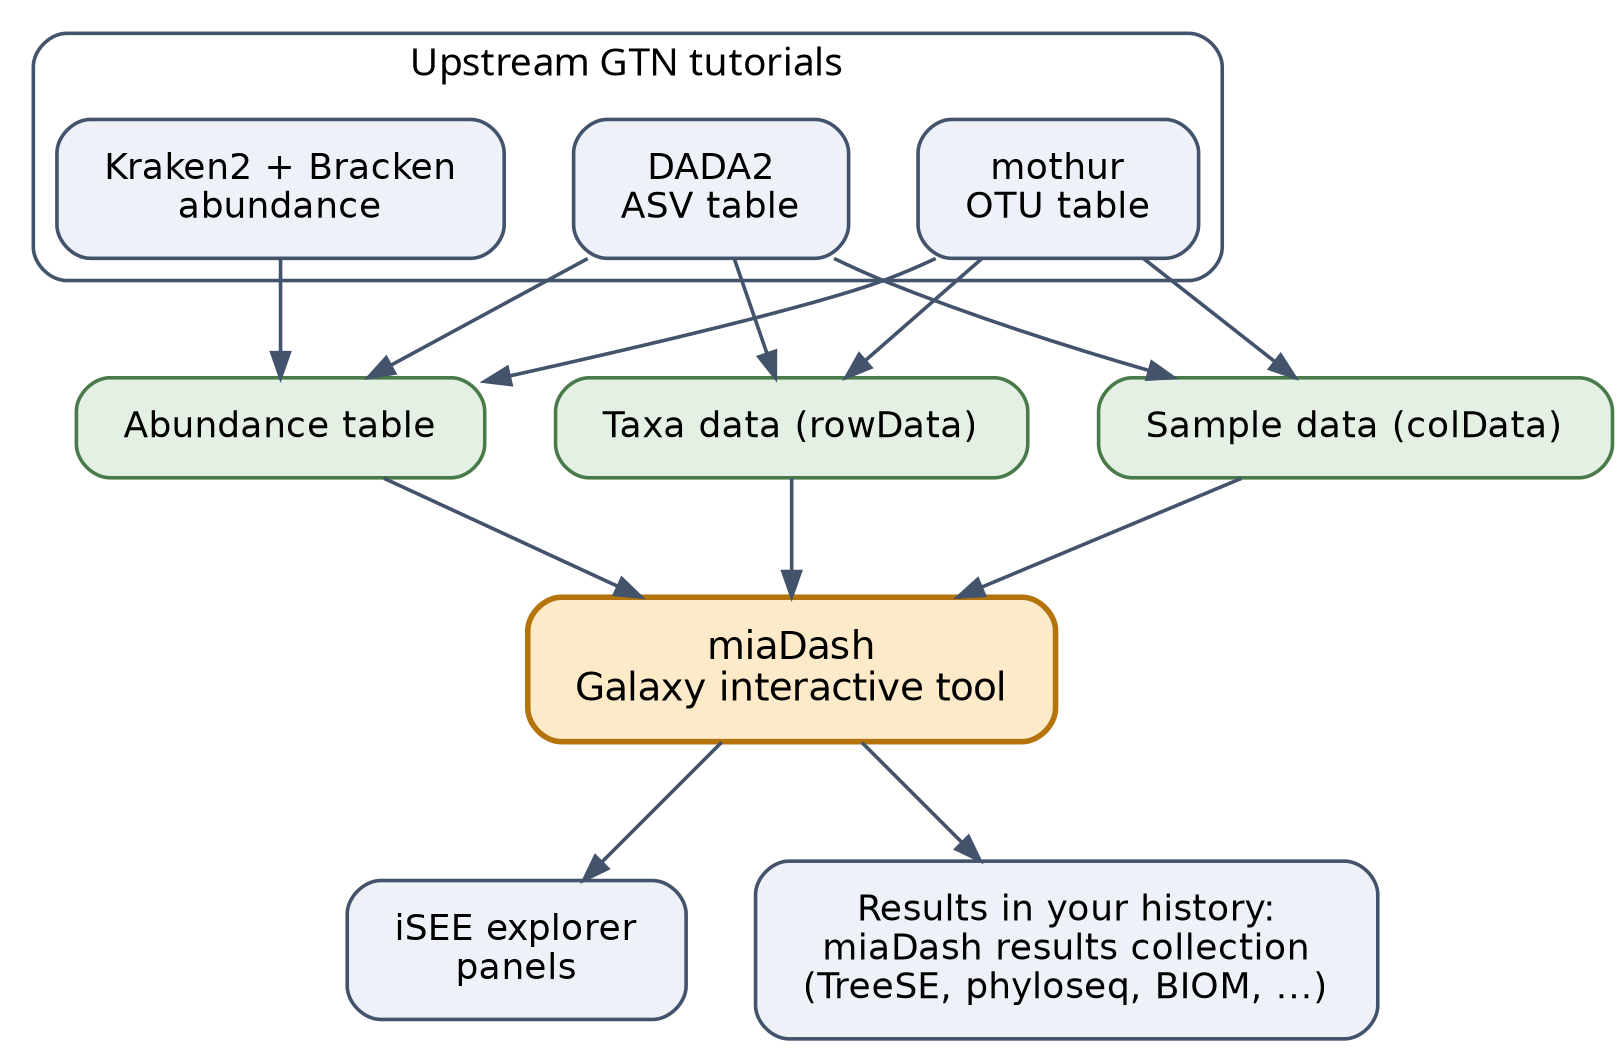
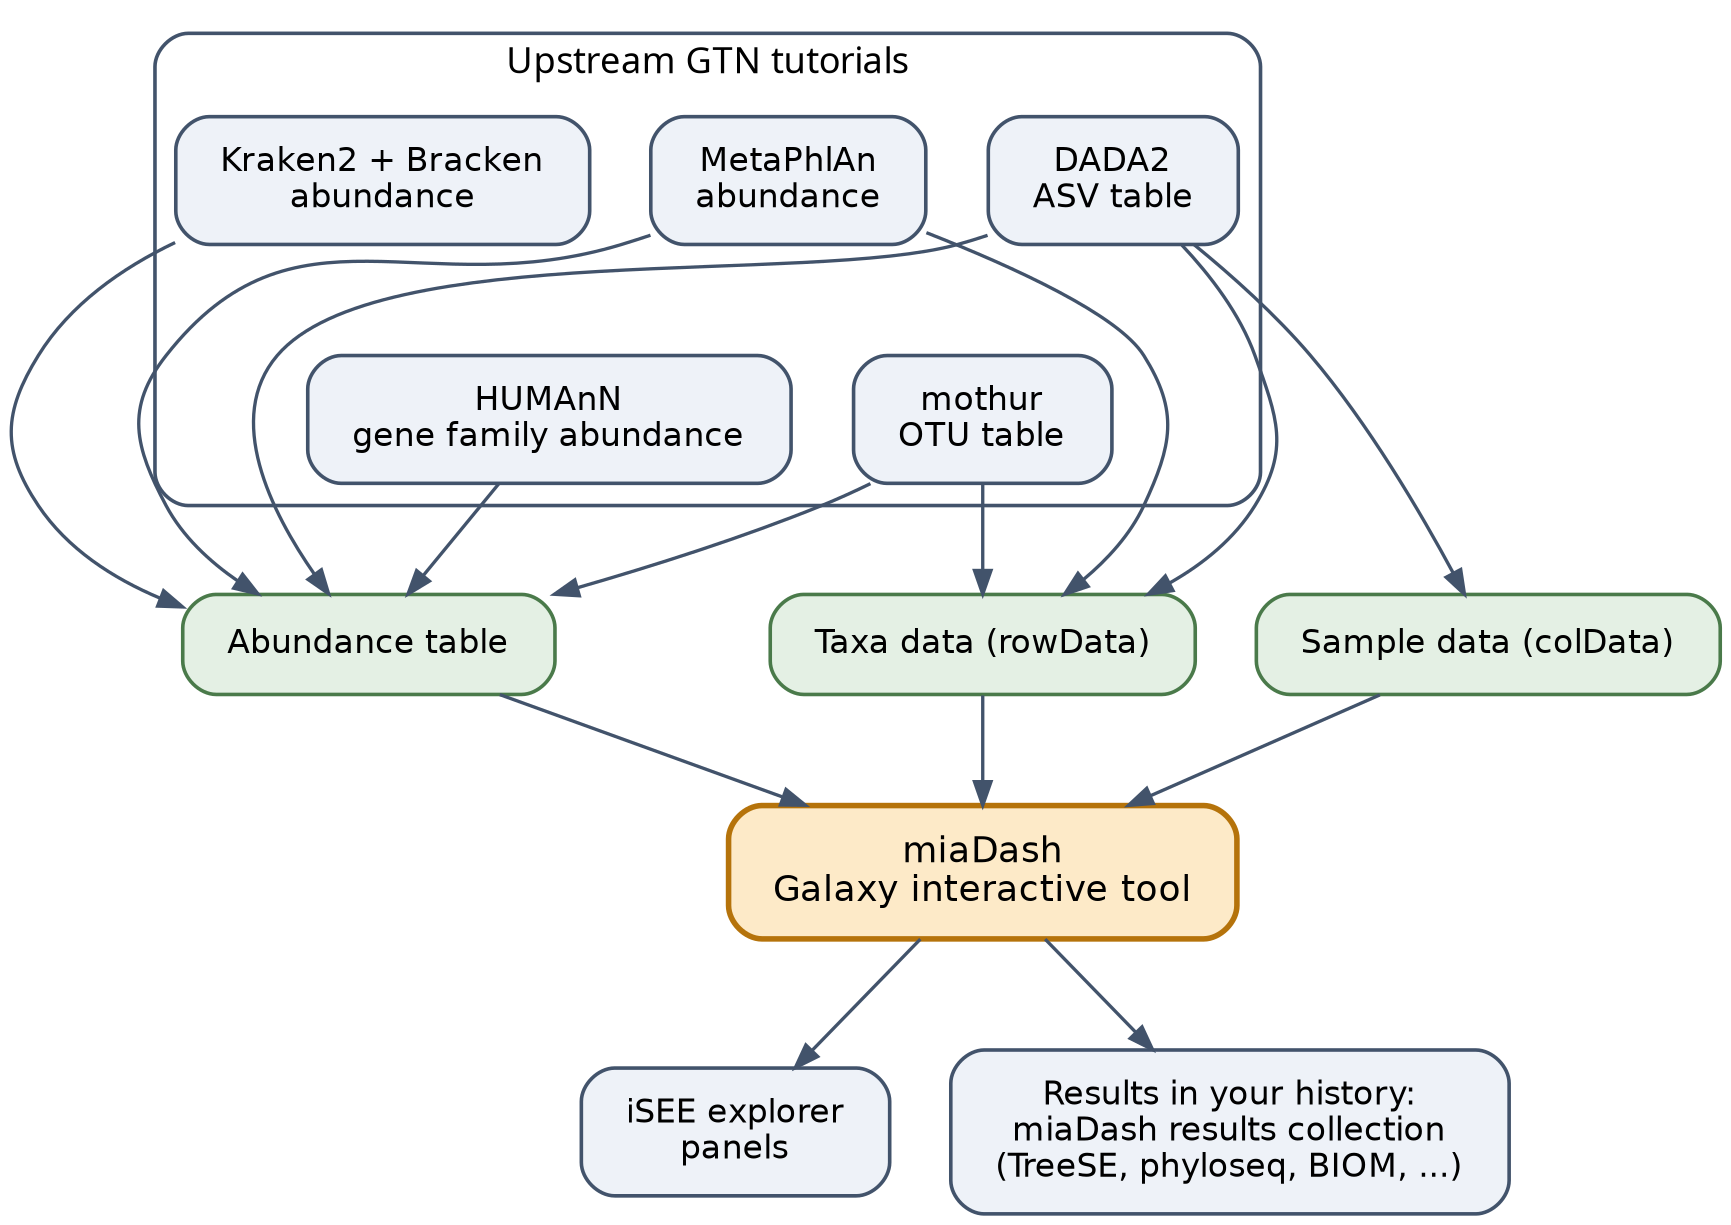
Extend flowchart with MetaPhlAn and HUMAnN, link metatranscriptomics tutorial

Changed region(s): [[0.0, 0.0, 1.0, 1.0]]

diff --git a/content/news/2026/2026-10-21-miadash-interactive-tool/index.md b/content/news/2026/2026-10-21-miadash-interactive-tool/index.md
@@ -51,7 +51,8 @@ Results travel back to your history. The export download in the app has a **Send
 Most microbiome pipelines end exactly where miaDash starts, and the Galaxy Training Network has tutorials for a few of them:
 
 * [Building an amplicon sequence variant (ASV) table from 16S data using DADA2](https://training.galaxyproject.org/training-material/topics/microbiome/tutorials/dada-16S/tutorial.html) produces all three tables miaDash wants: the ASV table as the abundance table, the DADA2 taxonomy table as the taxa data, and the sample metadata table as the sample data.
-* [Taxonomic Profiling and Visualization of Metagenomic Data](https://training.galaxyproject.org/training-material/topics/microbiome/tutorials/taxonomic-profiling/tutorial.html) runs Kraken2 and Bracken, giving you species level abundance reports, one per sample.
+* [Taxonomic Profiling and Visualization of Metagenomic Data](https://training.galaxyproject.org/training-material/topics/microbiome/tutorials/taxonomic-profiling/tutorial.html) runs Kraken2 and Bracken and compares them with MetaPhlAn, giving you species level abundance reports, one per sample.
+* [Metatranscriptomics analysis using microbiome RNA-seq data](https://training.galaxyproject.org/training-material/topics/microbiome/tutorials/metatranscriptomics/tutorial.html) profiles the community with MetaPhlAn and the functions with HUMAnN, ending in a gene family and a pathway abundance table.
 * [Calculating α and β diversity from microbiome taxonomic data](https://training.galaxyproject.org/training-material/topics/microbiome/tutorials/diversity/tutorial.html) works on Bracken species level abundance tables, the same layout miaDash expects for its abundance table.
 * [16S Microbial Analysis with mothur](https://training.galaxyproject.org/training-material/topics/microbiome/tutorials/mothur-miseq-sop/tutorial.html) ends with an OTU table that already carries the taxonomy of every OTU.
 
@@ -59,7 +60,7 @@ More microbiome tutorials are collected in the [microbiome topic of the GTN](htt
 
 <div align="center">
 
-<img src="static/pipeline.png" alt="Flowchart: the DADA2, Kraken2 with Bracken and mothur tutorials produce abundance tables, taxa data and sample data, which feed into the miaDash interactive tool and end up as iSEE panels and results in the Galaxy history" width="800" />
+<img src="static/pipeline.png" alt="Flowchart: the DADA2, mothur, Kraken2 with Bracken, MetaPhlAn and HUMAnN workflows produce abundance tables, taxa data and sample data, which feed into the miaDash interactive tool and end up as iSEE panels and results in the Galaxy history" width="800" />
 
 </div>
 
